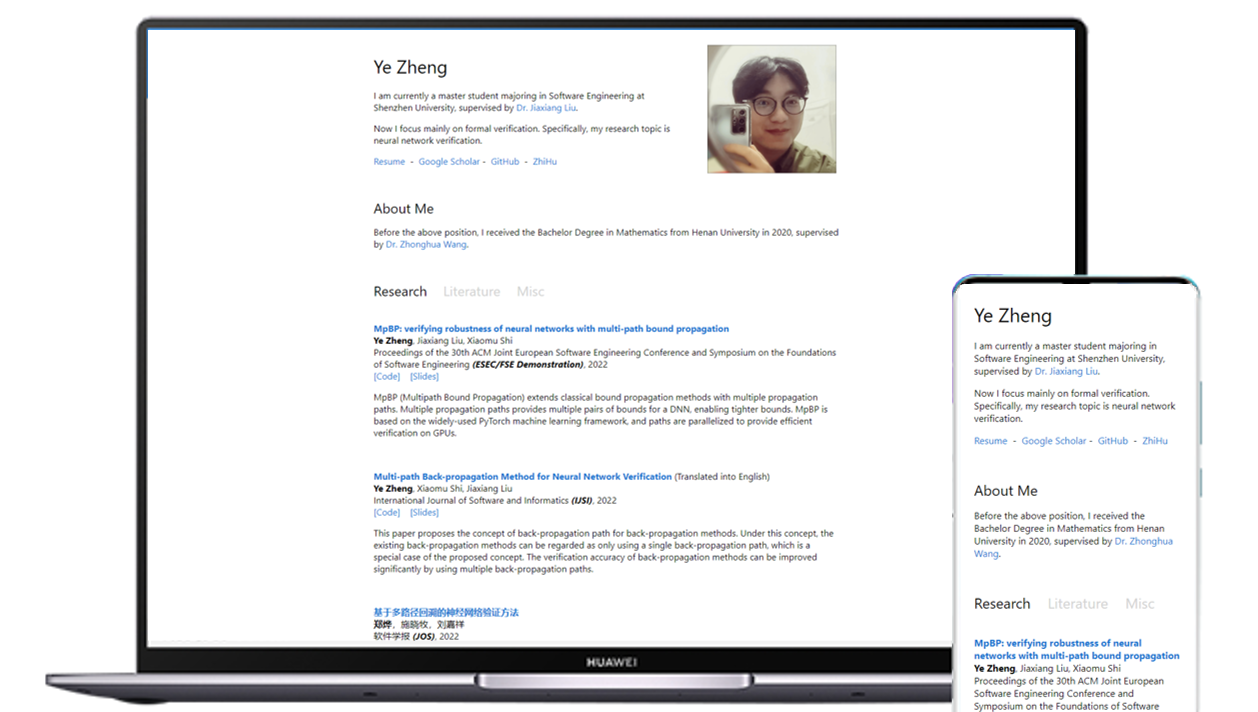
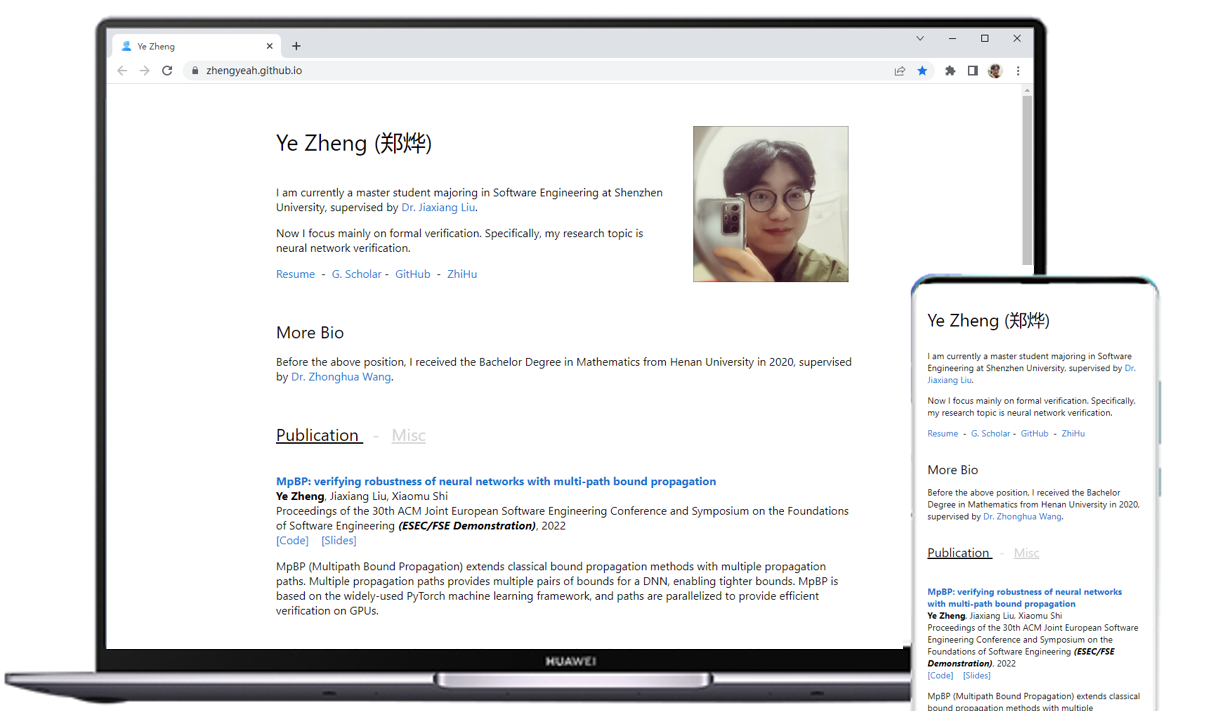
Add contents

Changed region(s): [[0.0, 0.0, 0.968, 1.0]]

diff --git a/README.md b/README.md
@@ -11,7 +11,8 @@ Feel free to clone this code for your own personal use.
 This website is designed for personal academic homepage, with the following features:
 
 * Responsive design: different layouts on different screen sizes;
-* Well-designed layouts: elements' sizes, margins, and paddings are fine-tuned;
+* Well-designed layouts: elements' colors, sizes, margins, and paddings are fine-tuned;
+* Subpages (filters) implemented by pure JSP;
 * Easy extensibility: simple and structural code template. 
 
 
